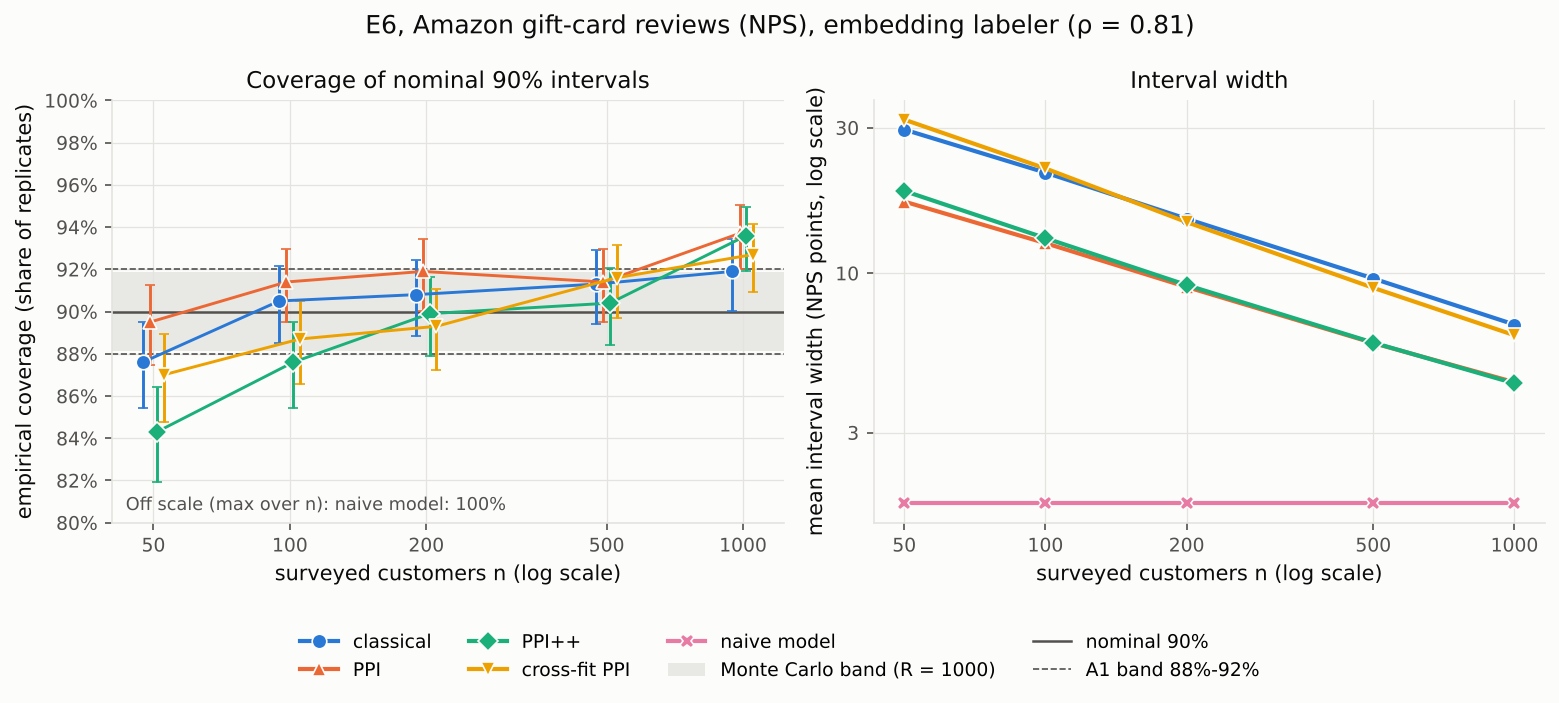
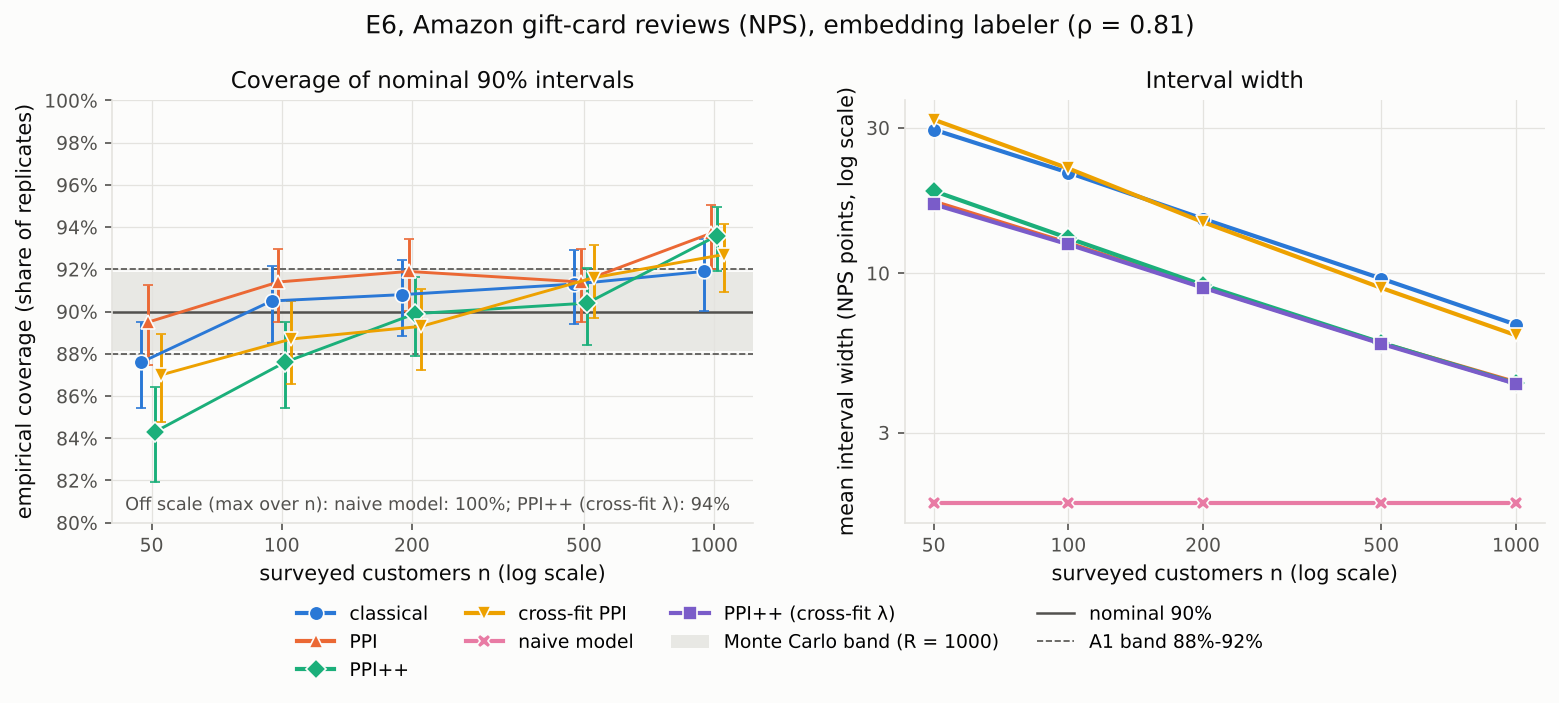
Rerun E1 and E6 with ppi_pp_cf; recommend it as the small-survey default
Claude-Session: https://claude.ai/code/session_01Q6u89m74gV2ZPQ88GmbkB6

diff --git a/docs/progress/phase-3.md b/docs/progress/phase-3.md
@@ -824,3 +824,77 @@ points at release **`labels-v2`**, which needs uploading (labels-v1 is supersede
      needs your approval under CLAUDE.md rules 3 and 6.
    - (c) Both.
 4. Upload `labels-v2` (send-out below).
+
+---
+
+## Session 3, continued (2026-10-13): small-n PPI++ fix (reviewer chose option c); labels-v2 published
+
+### `labels-v2`
+
+Published by the owner. The asset digest equals the pinned SHA-256 (`dba99b27…cc56`).
+Unauthenticated downloads still return 404 while the repository is private.
+
+### (b) New estimator `ppi_pp_cf`: PPI++ with a cross-fitted λ (`estimators/ppi.py`)
+
+- **Method.**
+  - The labeled rows are split into K folds (`rng` or given `folds`).
+  - λ_k is the same plug-in NPS-contrast λ as `ppi_pp`, computed from the labeled rows
+    *outside* fold k only. The unlabeled set enters only through N.
+  - θ̂ = mean_i(Z_i − λ_{k(i)} f_i) + λ̄ · mean_j f̃_j, with λ̄ = Σ_k (n_k/n) λ_k.
+  - The variance treats the λ_k as fixed and uses full-sample moments; with equal λ_k it
+    is exactly the PPI variance. This is the cross-fitting idea of DML (Chernozhukov et
+    al. 2018, *Econometrics Journal* 21(1)), applied to the tuning parameter.
+  - **Exactly unbiased:** λ_k is independent of fold k's rows and of the unlabeled set.
+    The derivation is in the module docstring.
+- **Tests first** (`tests/unit/test_ppi_pp_cf.py`, 9 tests):
+  - reduces to PPI(λ) when the fold λs are equal;
+  - the point formula holds with unequal λs;
+  - λ_k ignores fold k's answers and the unlabeled values;
+  - the fold split is reproducible;
+  - permuting rows together with their folds changes nothing;
+  - constant predictions reduce to classical;
+  - input validation;
+  - a Monte Carlo probe on a skewed population at n = 30: plug-in PPI++ bias +2.52
+    (MC se 0.17); `ppi_pp_cf` −0.06.
+- A harness test checks that adding `ppi_pp_cf` (its own random stream) leaves every other
+  estimator's results byte-identical. This was also confirmed on E1 and both E6 reruns.
+- **One existing test changed:** `tests/unit/test_ppi.py::test_registry` asserts the exact
+  set of registered estimators, and now lists `ppi_pp_cf`. The check is as strict as
+  before; it is flagged here per CLAUDE.md §1.3.
+- `ppi_pp_cf` is in `VALID_UNDER_MCAR`, so the slow suite checks it. **`make test-slow`:
+  18/18 pass**, including `ppi_pp_cf` at n = 50, 200 and 1,000.
+
+### Evidence (E1, E6 CFPB and E6 reviews rerun with `ppi_pp_cf`; other rows unchanged)
+
+| | `ppi` | `ppi_pp` | `ppi_pp_cf` |
+|---|---|---|---|
+| Reviews n = 50, bias (emb / LLM / tab) | −0.18 / −0.04 / −0.19 | **+2.23 / +1.75 / +1.15** | −0.30 / −0.06 / −0.10 |
+| Reviews n = 50, coverage | 0.895 / 0.906 / 0.888 | **0.843** / 0.869 / 0.860 | 0.872 / 0.884 / 0.865 |
+| Reviews n = 50, MSE gain vs classical | 2.75 / 2.89 / 1.32 | 1.76 / 2.28 / 1.22 | 2.54 / 2.77 / 1.24 |
+| CFPB LLM (λ* ≈ 0.1), MSE gain n = 50 / 1,000 | **0.91 / 0.81** | 0.98 / 1.00 | 0.97 / 1.00 |
+| E1 simulator n = 50, bias / coverage | +0.18 / 0.900 | +0.44 / 0.888 | +0.15 / 0.890 |
+| Cells in A1 band (all three experiments) | 34 / 35 | 34 / 35 | 34 / 35 |
+
+(The A1 misses: reviews `ppi` and `ppi_pp_cf` at n = 1,000, embedding labeler, 0.937, which
+is the finite-pool over-coverage explained above; CFPB tabular `ppi` at n = 1,000, 0.938,
+same cause; `ppi_pp` reviews n = 50, 0.843.)
+
+**Conclusion (a + b, as documented in `docs/PLAN.md`):** `ppi_pp_cf` is the recommended
+default for small surveys:
+- It is unbiased.
+- Its coverage is in the band.
+- It is close to plain PPI's efficiency when the labeler is calibrated.
+- It is safe when the labeler is not; plain PPI loses up to 19% against the survey alone
+  on CFPB.
+
+Plain PPI is marginally better at n ≤ 100 *if* the labeler is known to be calibrated.
+Plug-in `ppi_pp` is fine from about n = 500.
+
+**Remaining limitation (reported, not fixed):** at n ≤ 50 on very skewed data, `ppi_pp_cf`'s
+SE is somewhat optimistic, because the fold λs' variability is ignored. On the skewed probe
+population, reported se / empirical sd was 0.849 at n = 30 and 0.916 at n = 50; for classical
+and plain PPI it was 0.95–0.98. At n ≥ 100 all are 0.96–0.98. A variance term for the
+λ_k variability, or a bootstrap interval, would be a new interval type (CLAUDE.md rule 6)
+and is not attempted here.
+
+`make lint` is clean, `make test` gives 1,363 passed, and `make test-slow` gives 18/18.

diff --git a/docs/results/e06_amazon_summary.md b/docs/results/e06_amazon_summary.md
@@ -29,6 +29,11 @@ Generated by `experiments/e06_amazon.py` (1000 replicates, seed 20261015). Pool 
 | embedding (0.809) | ppi_pp | 200 | 0.899 [0.879, 0.916] | yes | 9.14 | +0.48 | 544 |
 | embedding (0.809) | ppi_pp | 500 | 0.904 [0.884, 0.921] | yes | 5.92 | +0.14 | 1318 |
 | embedding (0.809) | ppi_pp | 1000 | 0.936 [0.919, 0.950] | yes | 4.35 | +0.11 | 2431 |
+| embedding (0.809) | ppi_pp_cf | 50 | 0.872 [0.850, 0.891] | yes | 16.84 | -0.30 | 154 |
+| embedding (0.809) | ppi_pp_cf | 100 | 0.904 [0.884, 0.921] | yes | 12.43 | -0.11 | 296 |
+| embedding (0.809) | ppi_pp_cf | 200 | 0.915 [0.896, 0.931] | yes | 8.96 | -0.02 | 566 |
+| embedding (0.809) | ppi_pp_cf | 500 | 0.912 [0.893, 0.928] | yes | 5.87 | -0.08 | 1338 |
+| embedding (0.809) | ppi_pp_cf | 1000 | 0.937 [0.920, 0.950] | NO | 4.34 | -0.00 | 2446 |
 | llm (0.794) | classical | 50 | 0.882 [0.861, 0.901] | yes | 29.68 | -0.07 | 50 |
 | llm (0.794) | classical | 100 | 0.895 [0.874, 0.913] | yes | 21.24 | -0.16 | 100 |
 | llm (0.794) | classical | 200 | 0.870 [0.848, 0.889] | yes | 15.04 | +0.17 | 200 |
@@ -54,6 +59,11 @@ Generated by `experiments/e06_amazon.py` (1000 replicates, seed 20261015). Pool 
 | llm (0.794) | ppi_pp | 200 | 0.891 [0.870, 0.909] | yes | 9.39 | +0.55 | 513 |
 | llm (0.794) | ppi_pp | 500 | 0.917 [0.898, 0.933] | yes | 6.08 | +0.13 | 1247 |
 | llm (0.794) | ppi_pp | 1000 | 0.926 [0.908, 0.941] | yes | 4.47 | +0.09 | 2303 |
+| llm (0.794) | ppi_pp_cf | 50 | 0.884 [0.863, 0.902] | yes | 17.89 | -0.06 | 138 |
+| llm (0.794) | ppi_pp_cf | 100 | 0.887 [0.866, 0.905] | yes | 12.87 | -0.14 | 273 |
+| llm (0.794) | ppi_pp_cf | 200 | 0.902 [0.882, 0.919] | yes | 9.28 | +0.07 | 525 |
+| llm (0.794) | ppi_pp_cf | 500 | 0.914 [0.895, 0.930] | yes | 6.05 | -0.04 | 1256 |
+| llm (0.794) | ppi_pp_cf | 1000 | 0.934 [0.917, 0.948] | yes | 4.46 | +0.00 | 2309 |
 | tabular (0.477) | classical | 50 | 0.874 [0.852, 0.893] | yes | 29.69 | -0.25 | 50 |
 | tabular (0.477) | classical | 100 | 0.900 [0.880, 0.917] | yes | 21.18 | +0.04 | 100 |
 | tabular (0.477) | classical | 200 | 0.898 [0.878, 0.915] | yes | 15.13 | -0.17 | 200 |
@@ -79,6 +89,11 @@ Generated by `experiments/e06_amazon.py` (1000 replicates, seed 20261015). Pool 
 | tabular (0.477) | ppi_pp | 200 | 0.894 [0.873, 0.912] | yes | 13.32 | +0.13 | 258 |
 | tabular (0.477) | ppi_pp | 500 | 0.894 [0.873, 0.912] | yes | 8.50 | -0.02 | 636 |
 | tabular (0.477) | ppi_pp | 1000 | 0.925 [0.907, 0.940] | yes | 6.04 | +0.11 | 1258 |
+| tabular (0.477) | ppi_pp_cf | 50 | 0.865 [0.842, 0.885] | yes | 25.52 | -0.10 | 68 |
+| tabular (0.477) | ppi_pp_cf | 100 | 0.884 [0.863, 0.902] | yes | 18.43 | +0.08 | 132 |
+| tabular (0.477) | ppi_pp_cf | 200 | 0.886 [0.865, 0.904] | yes | 13.26 | -0.19 | 260 |
+| tabular (0.477) | ppi_pp_cf | 500 | 0.896 [0.876, 0.913] | yes | 8.48 | -0.14 | 638 |
+| tabular (0.477) | ppi_pp_cf | 1000 | 0.923 [0.905, 0.938] | yes | 6.04 | +0.06 | 1260 |
 
 ## Planning check: predicted vs realized gain (PPI++)
 

diff --git a/docs/results/e06_cfpb_summary.md b/docs/results/e06_cfpb_summary.md
@@ -29,6 +29,11 @@ Generated by `experiments/e06_cfpb.py` (1000 replicates, seed 20261014). Pool of
 | embedding (0.179) | ppi_pp | 200 | 0.896 [0.876, 0.913] | yes | 9.31 | -0.05 | 207 |
 | embedding (0.179) | ppi_pp | 500 | 0.927 [0.909, 0.942] | yes | 5.92 | -0.02 | 516 |
 | embedding (0.179) | ppi_pp | 1000 | 0.933 [0.916, 0.947] | yes | 4.20 | +0.01 | 1027 |
+| embedding (0.179) | ppi_pp_cf | 50 | 0.869 [0.847, 0.889] | yes | 18.31 | +0.24 | 53 |
+| embedding (0.179) | ppi_pp_cf | 100 | 0.896 [0.876, 0.913] | yes | 13.14 | +0.20 | 104 |
+| embedding (0.179) | ppi_pp_cf | 200 | 0.893 [0.872, 0.911] | yes | 9.31 | -0.02 | 207 |
+| embedding (0.179) | ppi_pp_cf | 500 | 0.929 [0.911, 0.943] | yes | 5.92 | -0.01 | 516 |
+| embedding (0.179) | ppi_pp_cf | 1000 | 0.934 [0.917, 0.948] | yes | 4.20 | +0.02 | 1027 |
 | llm (0.041) | classical | 50 | 0.910 [0.891, 0.926] | yes | 18.78 | +0.02 | 50 |
 | llm (0.041) | classical | 100 | 0.875 [0.853, 0.894] | yes | 13.36 | -0.07 | 100 |
 | llm (0.041) | classical | 200 | 0.898 [0.878, 0.915] | yes | 9.45 | -0.22 | 200 |
@@ -54,6 +59,11 @@ Generated by `experiments/e06_cfpb.py` (1000 replicates, seed 20261014). Pool of
 | llm (0.041) | ppi_pp | 200 | 0.890 [0.869, 0.908] | yes | 9.42 | -0.23 | 201 |
 | llm (0.041) | ppi_pp | 500 | 0.912 [0.893, 0.928] | yes | 6.01 | -0.01 | 502 |
 | llm (0.041) | ppi_pp | 1000 | 0.932 [0.915, 0.946] | yes | 4.26 | +0.04 | 1002 |
+| llm (0.041) | ppi_pp_cf | 50 | 0.881 [0.859, 0.900] | yes | 18.60 | +0.05 | 51 |
+| llm (0.041) | ppi_pp_cf | 100 | 0.874 [0.852, 0.893] | yes | 13.29 | -0.04 | 101 |
+| llm (0.041) | ppi_pp_cf | 200 | 0.890 [0.869, 0.908] | yes | 9.43 | -0.23 | 201 |
+| llm (0.041) | ppi_pp_cf | 500 | 0.911 [0.892, 0.927] | yes | 6.01 | -0.00 | 501 |
+| llm (0.041) | ppi_pp_cf | 1000 | 0.933 [0.916, 0.947] | yes | 4.26 | +0.04 | 1002 |
 | tabular (0.074) | classical | 50 | 0.881 [0.859, 0.900] | yes | 18.72 | -0.05 | 50 |
 | tabular (0.074) | classical | 100 | 0.894 [0.873, 0.912] | yes | 13.37 | -0.02 | 100 |
 | tabular (0.074) | classical | 200 | 0.905 [0.885, 0.922] | yes | 9.47 | -0.12 | 200 |
@@ -79,6 +89,11 @@ Generated by `experiments/e06_cfpb.py` (1000 replicates, seed 20261014). Pool of
 | tabular (0.074) | ppi_pp | 200 | 0.907 [0.887, 0.923] | yes | 9.43 | -0.14 | 202 |
 | tabular (0.074) | ppi_pp | 500 | 0.908 [0.888, 0.924] | yes | 5.99 | -0.05 | 503 |
 | tabular (0.074) | ppi_pp | 1000 | 0.936 [0.919, 0.950] | yes | 4.25 | +0.06 | 1005 |
+| tabular (0.074) | ppi_pp_cf | 50 | 0.866 [0.843, 0.886] | yes | 18.50 | -0.04 | 51 |
+| tabular (0.074) | ppi_pp_cf | 100 | 0.892 [0.871, 0.910] | yes | 13.27 | +0.00 | 101 |
+| tabular (0.074) | ppi_pp_cf | 200 | 0.906 [0.886, 0.923] | yes | 9.43 | -0.12 | 202 |
+| tabular (0.074) | ppi_pp_cf | 500 | 0.909 [0.890, 0.925] | yes | 5.99 | -0.05 | 503 |
+| tabular (0.074) | ppi_pp_cf | 1000 | 0.935 [0.918, 0.949] | yes | 4.25 | +0.06 | 1005 |
 
 ## Planning check: predicted vs realized gain (PPI++)
 

diff --git a/docs/PLAN.md b/docs/PLAN.md
@@ -222,8 +222,12 @@ def estimate(y_lab, f_lab, f_unlab, *, alpha=0.1, weights=None, **kw) -> Estimat
 **Choosing among the PPI estimators (small surveys)**
 
 - Plug-in PPI++ (`ppi_pp`) estimates λ on the same responses it corrects, which adds an O(1/n) bias and an optimistic standard error at small n. On the skewed Amazon reviews (84% promoters) it was +2.2 NPS points with 0.84 coverage at n = 50. It agrees with the others from about n = 500.
-- With a calibrated labeler (λ* ≈ 1), **plain `ppi` (λ = 1) is the recommended choice below about 200 responses**: it is unbiased, its standard error is as honest as the classical one, and it was the most efficient at small n in E6.
-- `ppi_pp_cf` removes the bias at every n. Its standard error ignores the variability of the fold λs, so it is also optimistic at n ≤ 50. Use it from about n = 100 when the labeler may be miscalibrated (λ* far from 1). The evidence is in `docs/progress/phase-3.md`.
+- **Recommended default for small surveys: `ppi_pp_cf`** (cross-fitted λ). Evidence across E1, E6 CFPB and E6 reviews:
+  - it removes that bias at every n;
+  - it is inside the A1 band in 34 of 35 cells (the one miss is the finite-pool over-coverage at n = 1,000);
+  - it keeps PPI++'s protection when the labeler is miscalibrated.
+- Plain `ppi` (λ = 1) is slightly better at n ≤ 100 when the labeler is calibrated (λ* ≈ 1). Reviews, n = 50: MSE gain 2.75 vs 2.54, coverage 0.895 vs 0.872. But it can be worse than the survey alone when the labeler is not calibrated (CFPB LLM: MSE gain 0.81 at n = 1,000).
+- Below about 50 responses on very skewed data, every Wald interval is somewhat optimistic, classical included. The numbers are in `docs/progress/phase-3.md`.
 
 **Survey planning** (`eval/planning.py`)
 

diff --git a/docs/results/e01_coverage_summary.md b/docs/results/e01_coverage_summary.md
@@ -29,3 +29,8 @@ Generated by `experiments/e01_coverage.py` from `configs/e01_coverage.yaml` (100
 | ppi_pp | 200 | 0.884 | [0.863, 0.902] | yes | 16.28 | +0.11 | 5.07 | 0.980 | 281 |
 | ppi_pp | 500 | 0.916 | [0.897, 0.932] | yes | 10.33 | +0.03 | 3.03 | 0.981 | 701 |
 | ppi_pp | 1000 | 0.906 | [0.886, 0.923] | yes | 7.30 | -0.08 | 2.19 | 0.983 | 1404 |
+| ppi_pp_cf | 50 | 0.890 | [0.869, 0.908] | yes | 31.86 | +0.15 | 9.75 | 0.962 | 72 |
+| ppi_pp_cf | 100 | 0.909 | [0.890, 0.925] | yes | 22.82 | +0.20 | 6.88 | 0.979 | 142 |
+| ppi_pp_cf | 200 | 0.886 | [0.865, 0.904] | yes | 16.27 | +0.05 | 5.07 | 0.978 | 282 |
+| ppi_pp_cf | 500 | 0.916 | [0.897, 0.932] | yes | 10.32 | +0.00 | 3.02 | 0.981 | 702 |
+| ppi_pp_cf | 1000 | 0.905 | [0.885, 0.922] | yes | 7.30 | -0.09 | 2.18 | 0.982 | 1405 |
